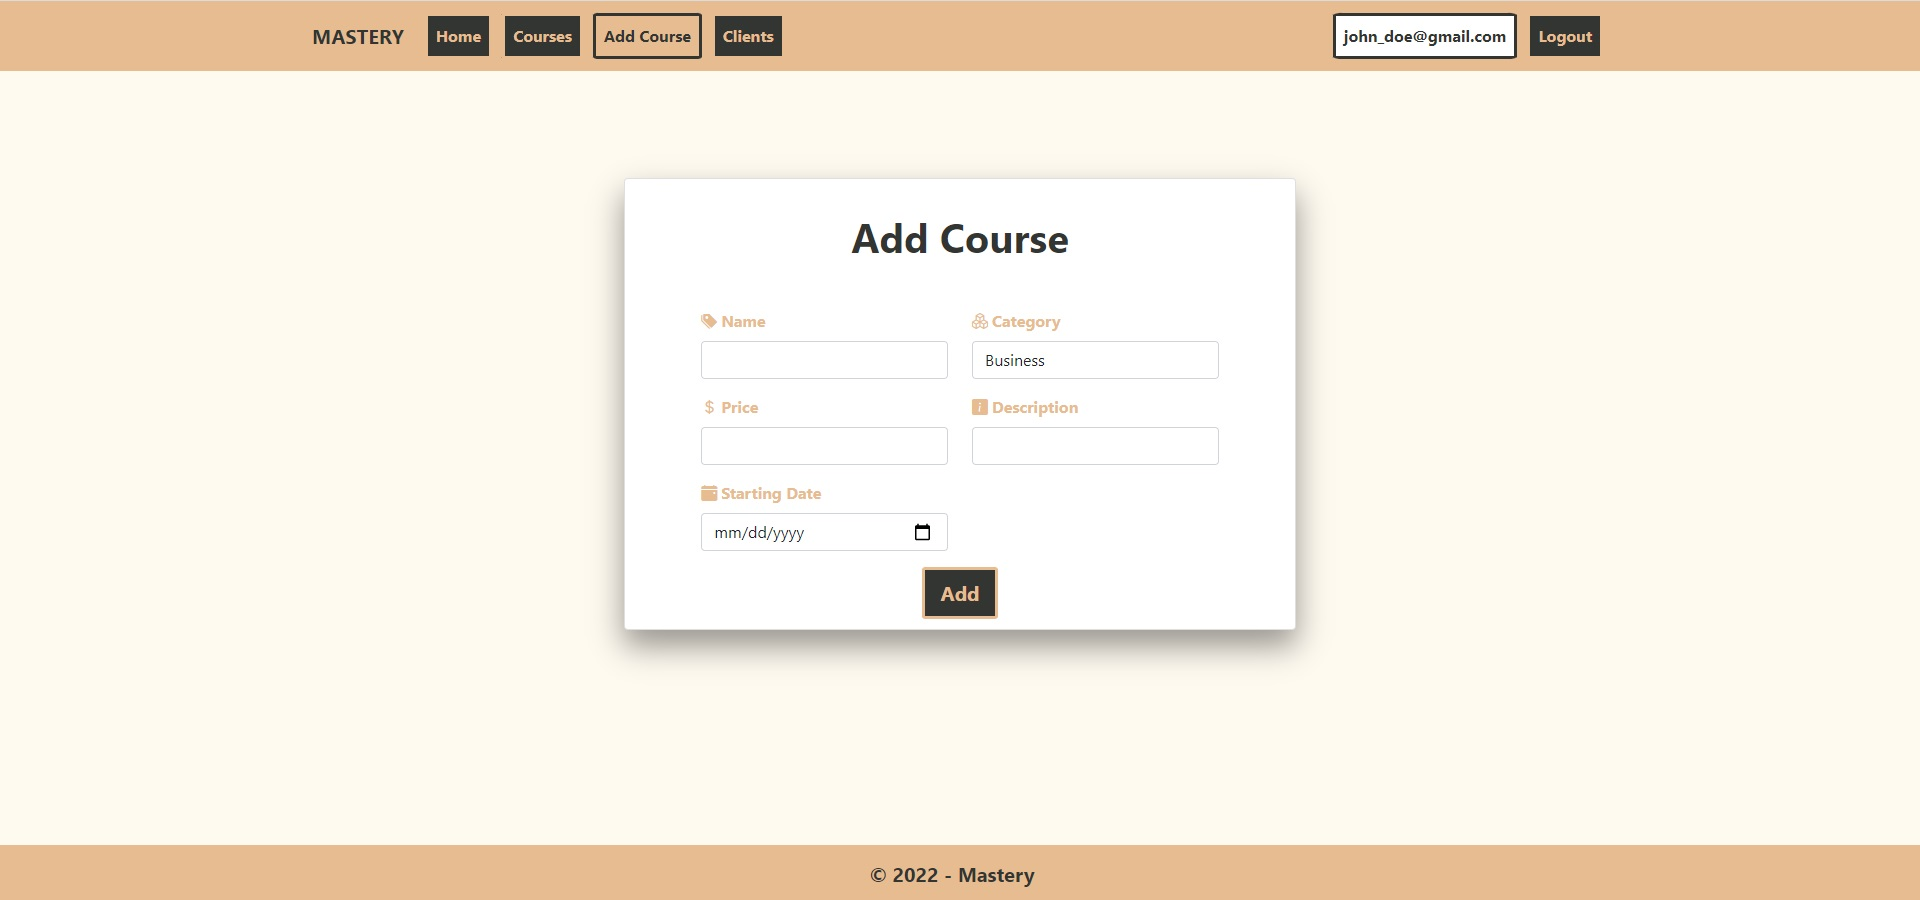
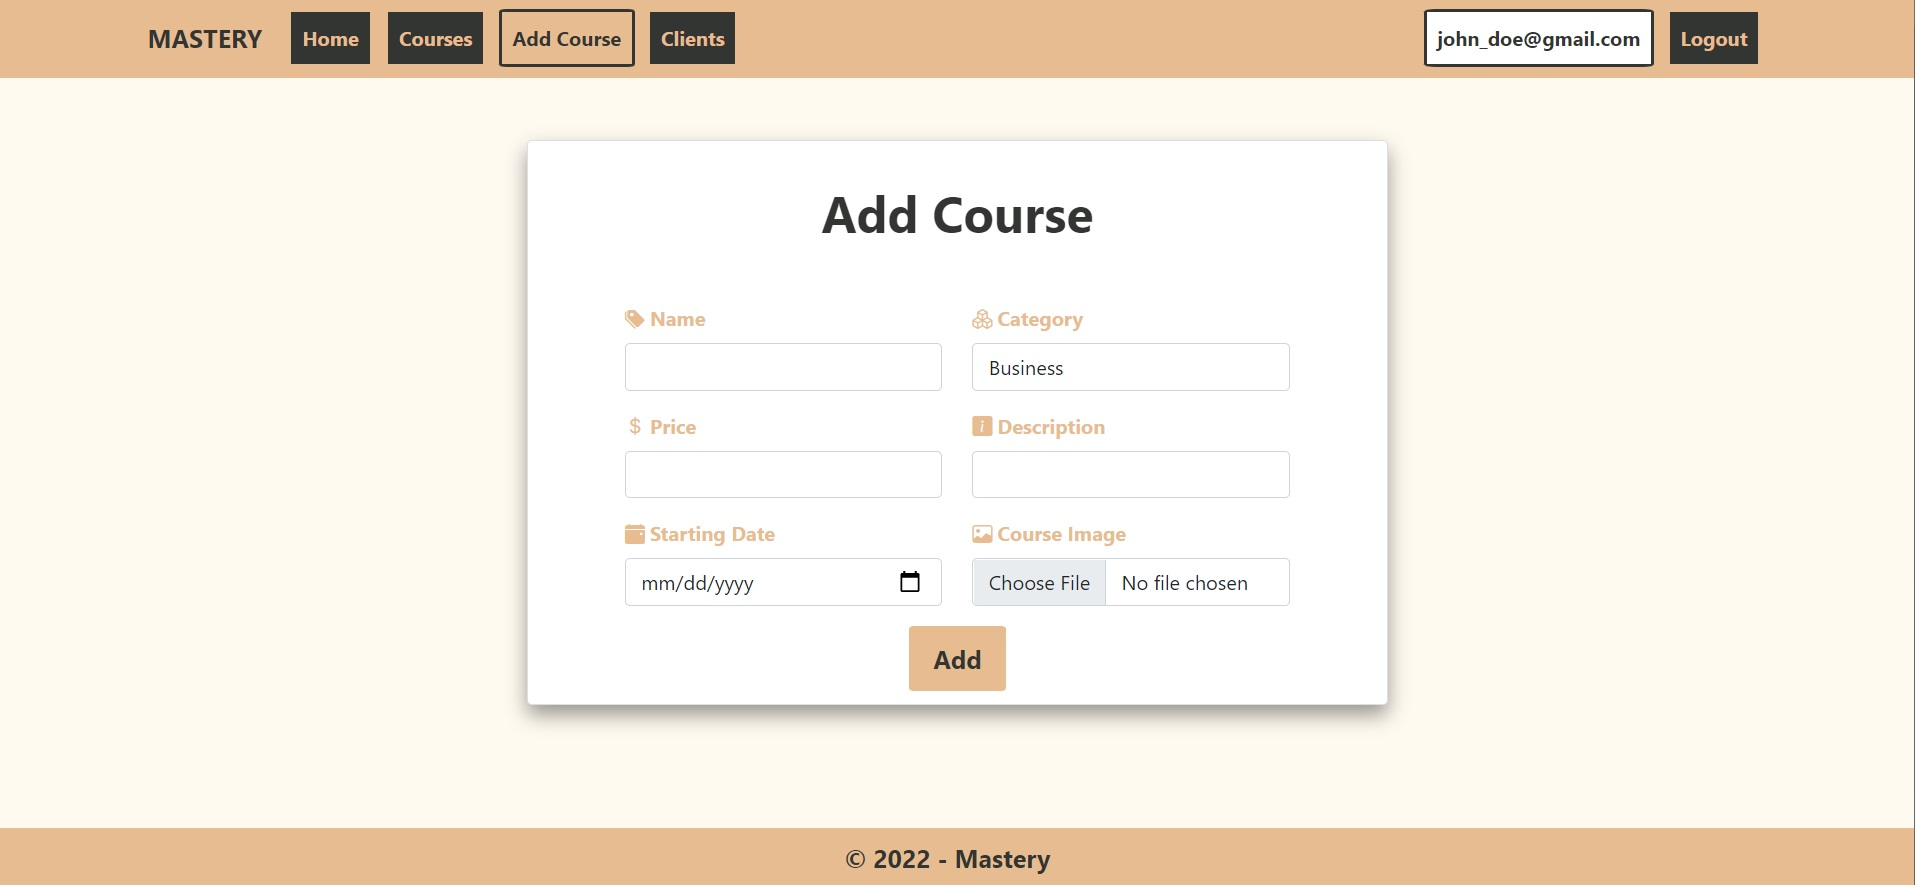
Update README file

diff --git a/mastery-client/mastery-react-app/src/components/Course.js b/mastery-client/mastery-react-app/src/components/Course.js
@@ -146,14 +146,34 @@ export const Course = ({
                   </Link>
                 </>
               )}
-              {user.role === "Client" &&
-                (!attendedCourses.includes(courseId) ? (
+              {user.id !== mentorId && user.role === "Mentor" && (
+                <>
                   <Link
-                    to={`/courses/${courseId}/clients`}
+                    to={`/courses/${courseId}/testimonials`}
+                    state={{ mentorId: mentorId }}
                     className="btn nav-btn"
                   >
-                    Join
+                    Testimonials
                   </Link>
+                </>
+              )}
+              {user.role === "Client" &&
+                (!attendedCourses.includes(courseId) ? (
+                  <>
+                    <Link
+                      to={`/courses/${courseId}/testimonials`}
+                      state={{ mentorId: mentorId }}
+                      className="btn nav-btn"
+                    >
+                      Testimonials
+                    </Link>
+                    <Link
+                      to={`/courses/${courseId}/clients`}
+                      className="btn nav-btn"
+                    >
+                      Join
+                    </Link>
+                  </>
                 ) : (
                   <>
                     <Link

diff --git a/README.md b/README.md
@@ -10,6 +10,7 @@
       <a href="#about-the-project">About The Project</a>
       <ul>
         <li><a href="#main-features">Main Features</a></li>
+         <li><a href="#integrated-services">Integrated Services</a></li>
         <li><a href="#built-with">Built With</a></li>
         <li><a href="#visuals">Visuals</a></li>
       </ul>
@@ -32,7 +33,7 @@
 
 ![main_page.jpg][main-page]
 
-A mentoring app where you can organize self development and business courses from wherever you are and make sure your clients achieve their desired outcomes. Used technologies: ASP.NET Core, C#, SQL Server, HTML, CSS, Bootstrap, JavaScript, React.
+A mentoring app where you can organize self development and business courses from wherever you are and make sure your clients achieve their desired outcomes. Used technologies: ASP.NET Core, C#, SQL Server, HTML, CSS, Bootstrap, JavaScript, React, Firebase.
 
 <p align="right">(<a href="#top">back to top</a>)</p>
 
@@ -46,10 +47,12 @@ A mentoring app where you can organize self development and business courses fro
 - The mentor can perform CRUD operations on his owned courses only
 - The mentor has access to the details of the clients that attend his courses
 - The client can enroll to a course or cancel his membership 
+- The client has access to a course content only if he is enrolled
 - Total course members display
 - Toaster notifications
 - Active page display
 - PDF upload & download
+- Firebase image upload & download
 
 <p align="right">(<a href="#top">back to top</a>)</p>
 
@@ -73,6 +76,13 @@ Database Management:
 IDE:
 * [Microsoft Visual Studio][visual-studio]
 * [Microsoft Visual Studio Code][visual-studio-code]
+
+<p align="right">(<a href="#top">back to top</a>)</p>
+
+### Integrated Services
+
+Firebase:
+* [Firebase][firebase]
 
 <p align="right">(<a href="#top">back to top</a>)</p>
 
@@ -197,6 +207,8 @@ REACT_APP_BASE_URL_FRONTEND=http://localhost:xxxx
 [visual-studio-code]: https://code.visualstudio.com/
 
 [radoi-razvan]: https://github.com/radoi-razvan
+
+[firebase]: https://firebase.google.com/
 
 [swagger-view]: project_photos/swagger_view.jpg
 [main-page]: project_photos/main_page.jpg
